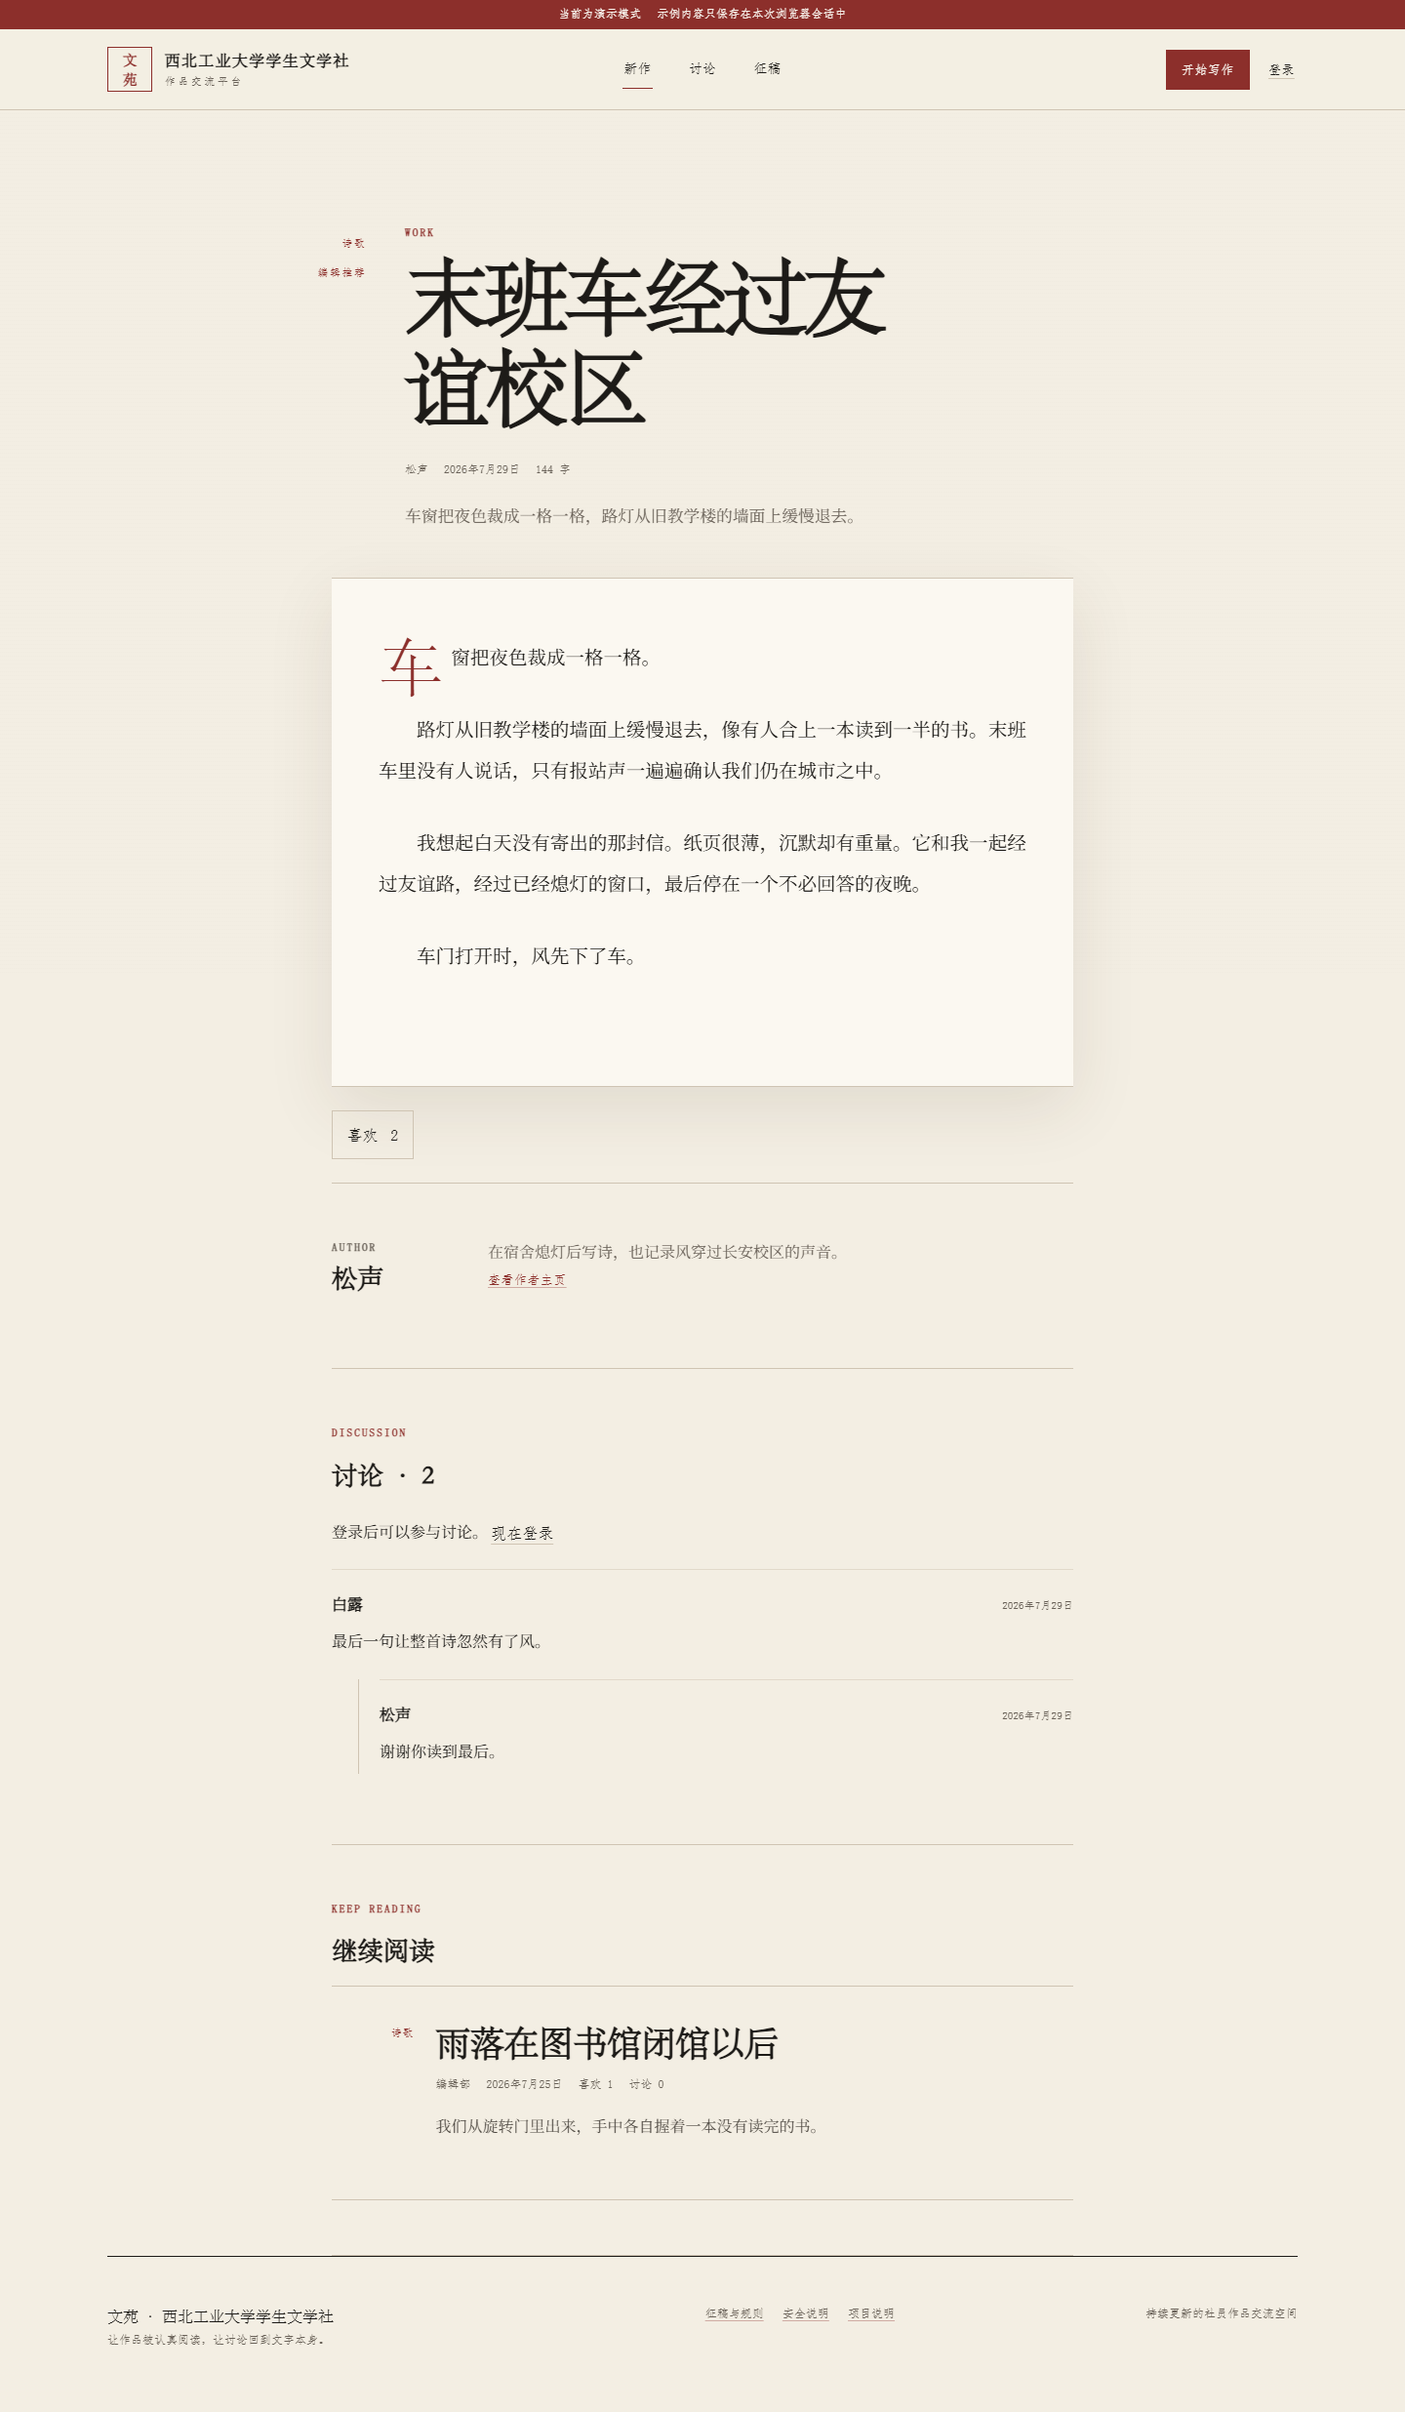
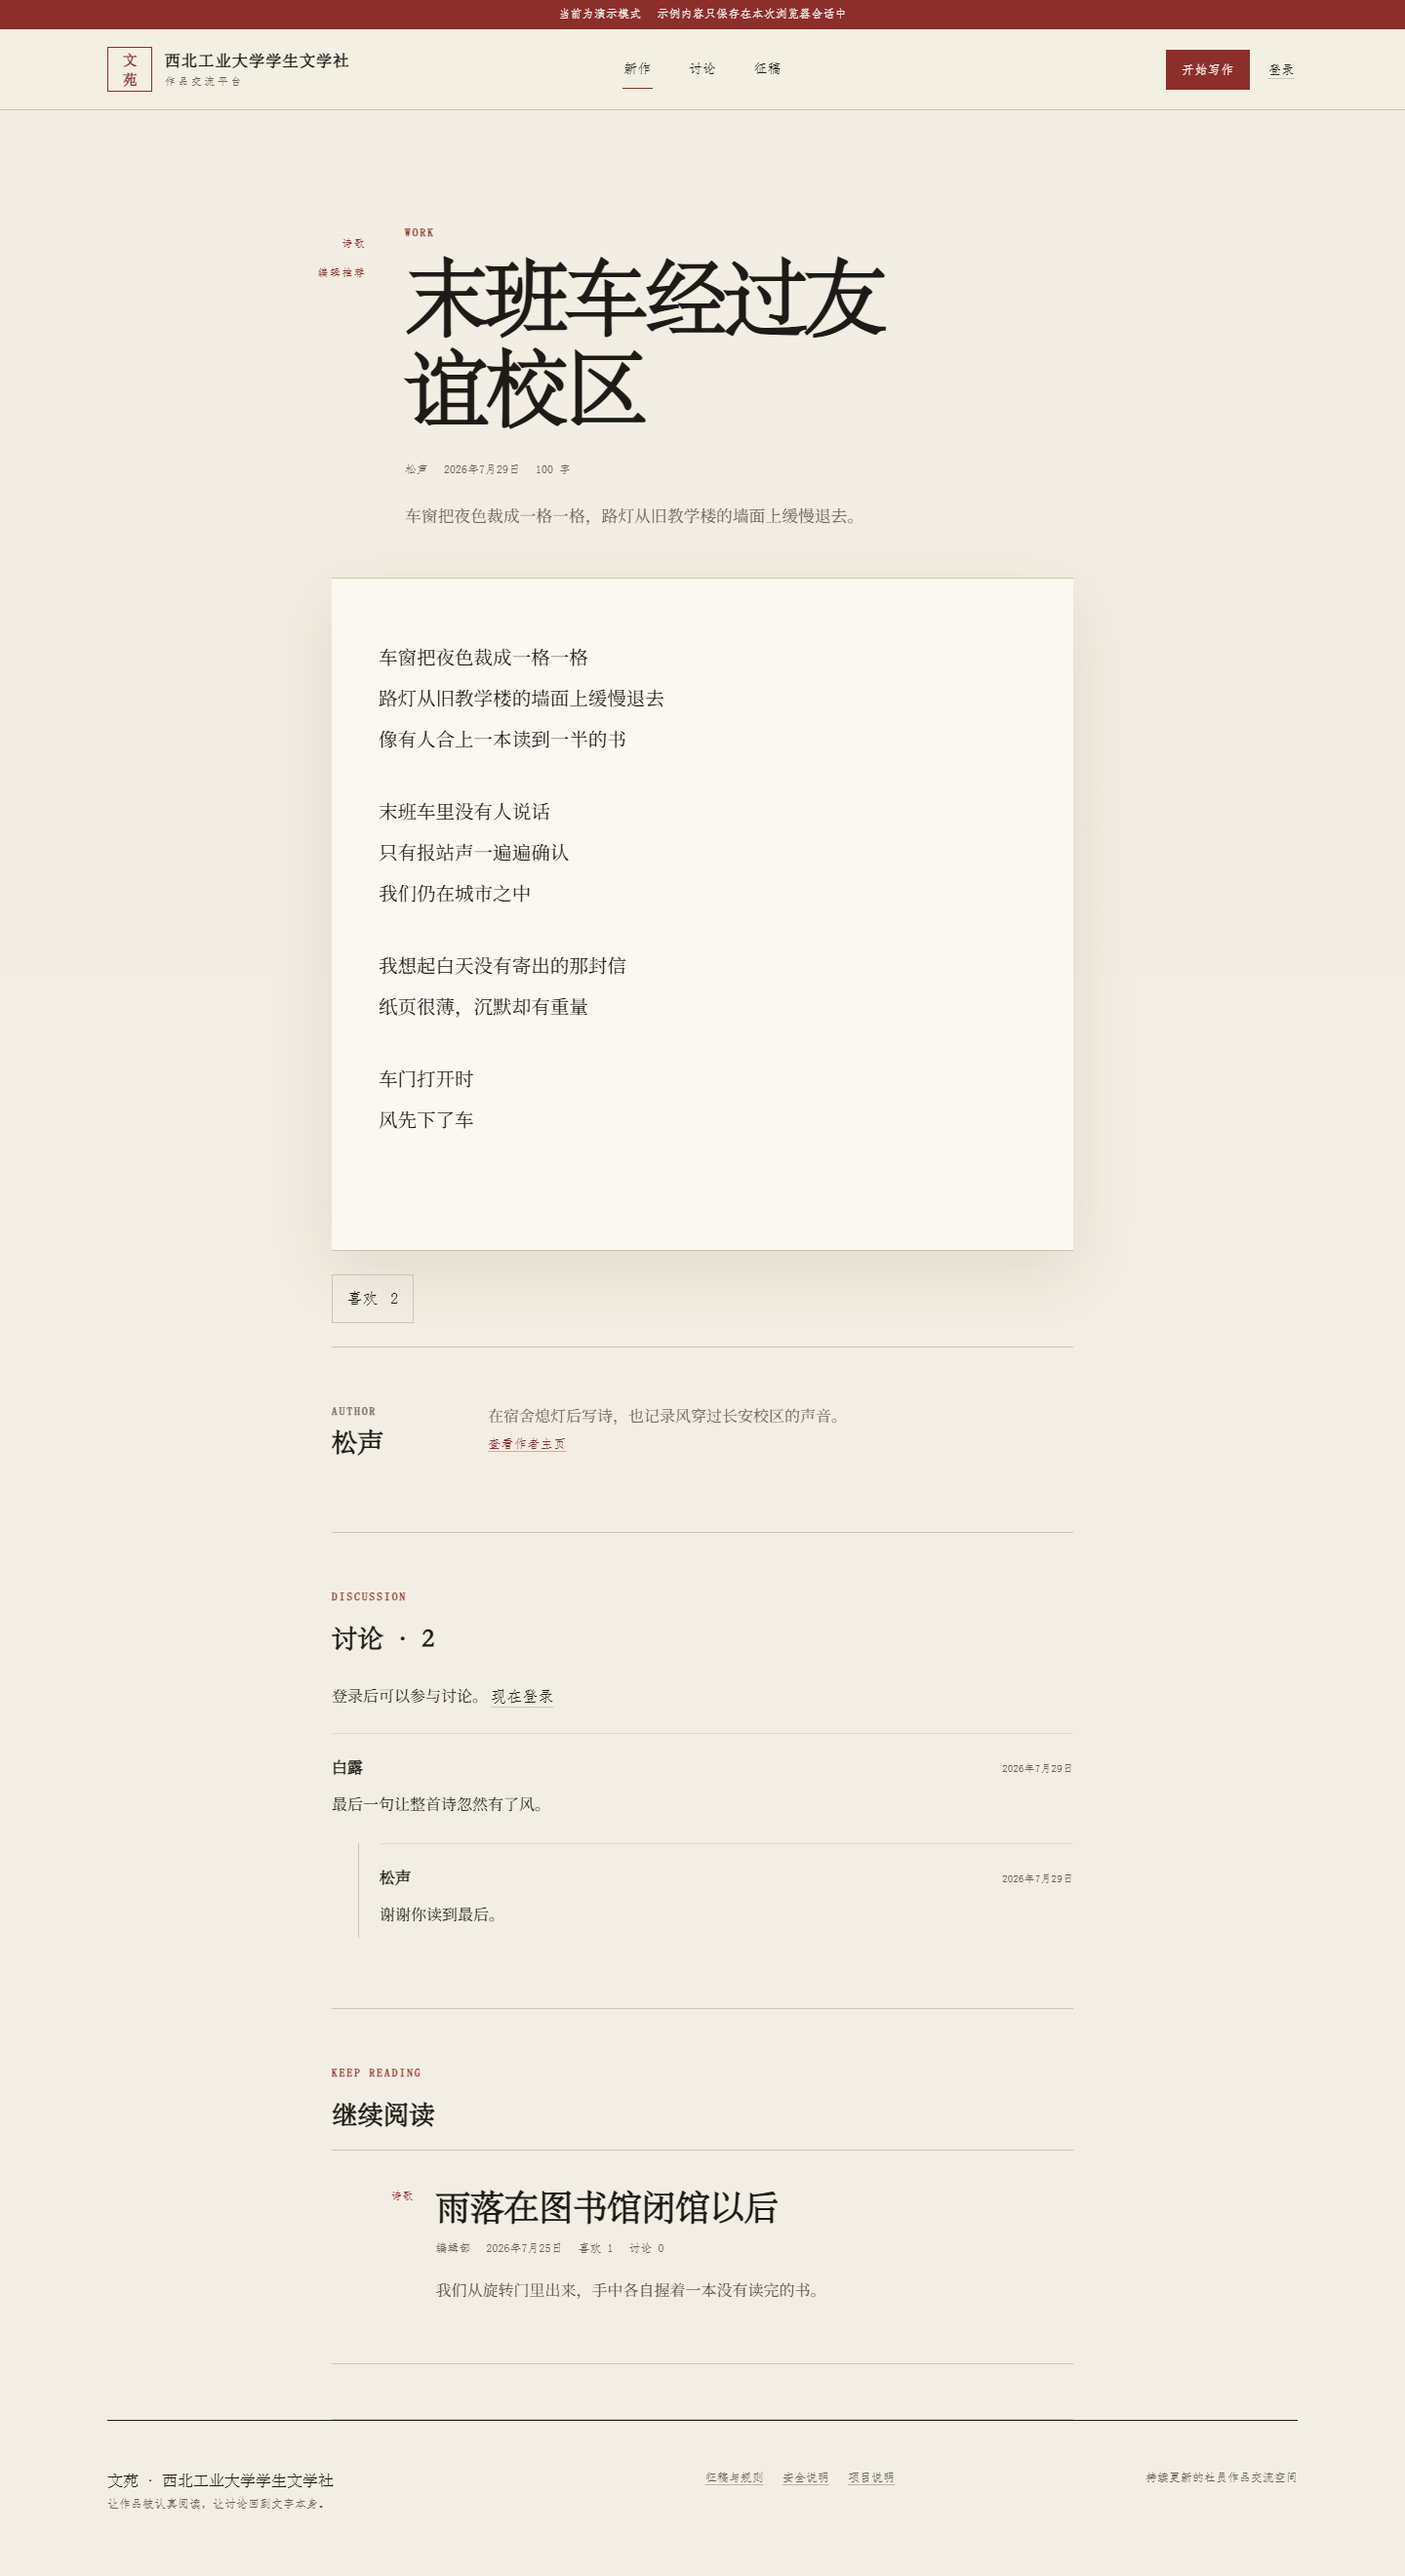
fix: preserve poetry line breaks

diff --git a/js/app.js b/js/app.js
@@ -590,8 +590,13 @@ function createPageHeader(eyebrow, title, description) {
   ]);
 }
 
-function renderParagraphs(content) {
-  const body = element("article", { className: "reading-body" });
+function renderParagraphs(content, category) {
+  const isPoetry = category === "诗歌";
+  const body = element("article", {
+    className: `reading-body ${
+      isPoetry ? "reading-body--poetry" : "reading-body--prose"
+    }`,
+  });
   String(content ?? "")
     .split(/\n\s*\n/)
     .map((paragraph) => paragraph.trim())
@@ -870,7 +875,7 @@ async function renderWork(workId) {
 
     shell.append(
       head,
-      renderParagraphs(work.content),
+      renderParagraphs(work.content, work.category),
       actionBar,
       authorNote,
       commentsBlock,

diff --git a/assets/styles.css b/assets/styles.css
@@ -832,20 +832,28 @@ main {
 
 .reading-body p {
   margin: 0 0 1.65em;
+}
+
+.reading-body--prose p {
   text-indent: 2em;
 }
 
-.reading-body p:first-child {
+.reading-body--prose p:first-child {
   text-indent: 0;
 }
 
-.reading-body p:first-child::first-letter {
+.reading-body--prose p:first-child::first-letter {
   float: left;
   margin: 0.08em 0.12em 0 0;
   color: var(--vermilion);
   font-family: var(--serif-title);
   font-size: 3.4em;
   line-height: 0.8;
+}
+
+.reading-body--poetry p {
+  white-space: pre-line;
+  text-indent: 0;
 }
 
 .work-actions {

diff --git a/docs/superpowers/plans/2026-07-30-poetry-reading-layout.md b/docs/superpowers/plans/2026-07-30-poetry-reading-layout.md
@@ -1,0 +1,173 @@
+# Poetry Reading Layout Implementation Plan
+
+> **For agentic workers:** REQUIRED SUB-SKILL: Use superpowers:subagent-driven-development (recommended) or superpowers:executing-plans to implement this plan task-by-task. Steps use checkbox (`- [ ]`) syntax for tracking.
+
+**Goal:** Preserve author-entered line breaks and stanza breaks for poetry while keeping the existing prose layout for novels and other categories.
+
+**Architecture:** Extend the existing reading-body renderer with a category argument and category-specific class names. Poetry stanzas remain paragraph nodes whose internal single newlines are preserved by CSS; prose continues using the existing paragraph splitting and drop-cap styles.
+
+**Tech Stack:** Vanilla JavaScript DOM rendering, CSS, Node test runner, Playwright browser checks.
+
+## Global Constraints
+
+- One newline in poetry produces the next poetic line.
+- Two or more consecutive newlines create a new stanza with additional spacing.
+- Poetry has no paragraph indent and no enlarged, colored, or floated first character.
+- Non-poetry categories retain the existing paragraph indentation and first-character decoration.
+- Do not modify the database schema, RLS policies, stored content format, or `js/config.mjs`.
+
+---
+
+### Task 1: Category-aware reading body
+
+**Files:**
+- Modify: `tests/browser-check.cjs`
+- Modify: `js/demo-data.mjs:66-70`
+- Modify: `js/app.js:593-603,873`
+- Modify: `assets/styles.css:821-850`
+
+**Interfaces:**
+- Consumes: a work category string and the work's original content string.
+- Produces: `renderParagraphs(content, category) -> HTMLElement`, with `.reading-body--poetry` or `.reading-body--prose`.
+
+- [x] **Step 1: Write the failing browser assertions**
+
+Change the seeded poem so its first stanza contains single newlines:
+
+```js
+content:
+  "车窗把夜色裁成一格一格\n路灯从旧教学楼的墙面上缓慢退去\n像有人合上一本读到一半的书\n\n末班车里没有人说话\n只有报站声一遍遍确认\n我们仍在城市之中\n\n我想起白天没有寄出的那封信\n纸页很薄，沉默却有重量\n\n车门打开时\n风先下了车",
+```
+
+Add assertions after opening the seeded poetry work:
+
+```js
+const poetryBody = page.locator(".reading-body--poetry");
+await expectVisible(poetryBody, "诗歌正文");
+const poetryFirstStanza = poetryBody.locator("p").first();
+if (!(await poetryFirstStanza.textContent()).includes("\n")) {
+  throw new Error("测试诗歌没有保留作者输入的单次换行");
+}
+if (
+  (await poetryFirstStanza.evaluate((node) => getComputedStyle(node).whiteSpace)) !==
+  "pre-line"
+) {
+  throw new Error("诗歌正文没有保留单次换行");
+}
+if (
+  (await poetryFirstStanza.evaluate((node) => getComputedStyle(node).textIndent)) !==
+  "0px"
+) {
+  throw new Error("诗歌正文不应首行缩进");
+}
+if (
+  (await poetryFirstStanza.evaluate((node) =>
+    getComputedStyle(node, "::first-letter").float,
+  )) !== "none"
+) {
+  throw new Error("诗歌首字不应浮动放大");
+}
+```
+
+Also navigate to the seeded novel and assert:
+
+```js
+await page.goto(`${baseUrl}/#/works/work-unnamed-station`);
+const proseBody = page.locator(".reading-body--prose");
+await expectVisible(proseBody, "小说正文");
+if (
+  (await proseBody.locator("p").first().evaluate((node) =>
+    getComputedStyle(node, "::first-letter").float,
+  )) !== "left"
+) {
+  throw new Error("小说应保留首字装饰");
+}
+```
+
+- [x] **Step 2: Run the browser test and verify RED**
+
+Run: `npm run test:browser`
+
+Expected: FAIL because `.reading-body--poetry` does not exist.
+
+- [x] **Step 3: Implement category-aware DOM rendering**
+
+Change the renderer to:
+
+```js
+function renderParagraphs(content, category) {
+  const isPoetry = category === "诗歌";
+  const body = element("article", {
+    className: `reading-body ${
+      isPoetry ? "reading-body--poetry" : "reading-body--prose"
+    }`,
+  });
+  String(content ?? "")
+    .split(/\n\s*\n/)
+    .map((paragraph) => paragraph.trim())
+    .filter(Boolean)
+    .forEach((paragraph) => {
+      body.append(element("p", { text: paragraph }));
+    });
+  return body;
+}
+```
+
+Pass the category at the reading page call site:
+
+```js
+renderParagraphs(work.content, work.category)
+```
+
+- [x] **Step 4: Scope prose and poetry CSS**
+
+Replace the unqualified paragraph rules with:
+
+```css
+.reading-body p {
+  margin: 0 0 1.65em;
+}
+
+.reading-body--prose p {
+  text-indent: 2em;
+}
+
+.reading-body--prose p:first-child {
+  text-indent: 0;
+}
+
+.reading-body--prose p:first-child::first-letter {
+  float: left;
+  margin: 0.08em 0.12em 0 0;
+  color: var(--vermilion);
+  font-family: var(--serif-title);
+  font-size: 3.4em;
+  line-height: 0.8;
+}
+
+.reading-body--poetry p {
+  white-space: pre-line;
+  text-indent: 0;
+}
+```
+
+- [x] **Step 5: Verify GREEN and full regression**
+
+Run: `npm run test:browser`
+
+Expected: browser checks pass at desktop and mobile viewports with no console errors or horizontal overflow.
+
+Run: `npm test`
+
+Expected: all unit, static, schema, and browser checks pass.
+
+- [x] **Step 6: Visually inspect generated desktop and mobile reading screenshots**
+
+Open `screenshots/desktop-reading.png` and the mobile poetry reading screenshot produced by the browser test. Confirm line breaks, stanza spacing, absence of the poetry drop cap, and no clipping.
+
+- [x] **Step 7: Commit only the poetry layout implementation**
+
+```text
+git add docs/superpowers/plans/2026-07-30-poetry-reading-layout.md tests/browser-check.cjs js/demo-data.mjs js/app.js assets/styles.css
+git commit -m "fix: preserve poetry line breaks"
+```
